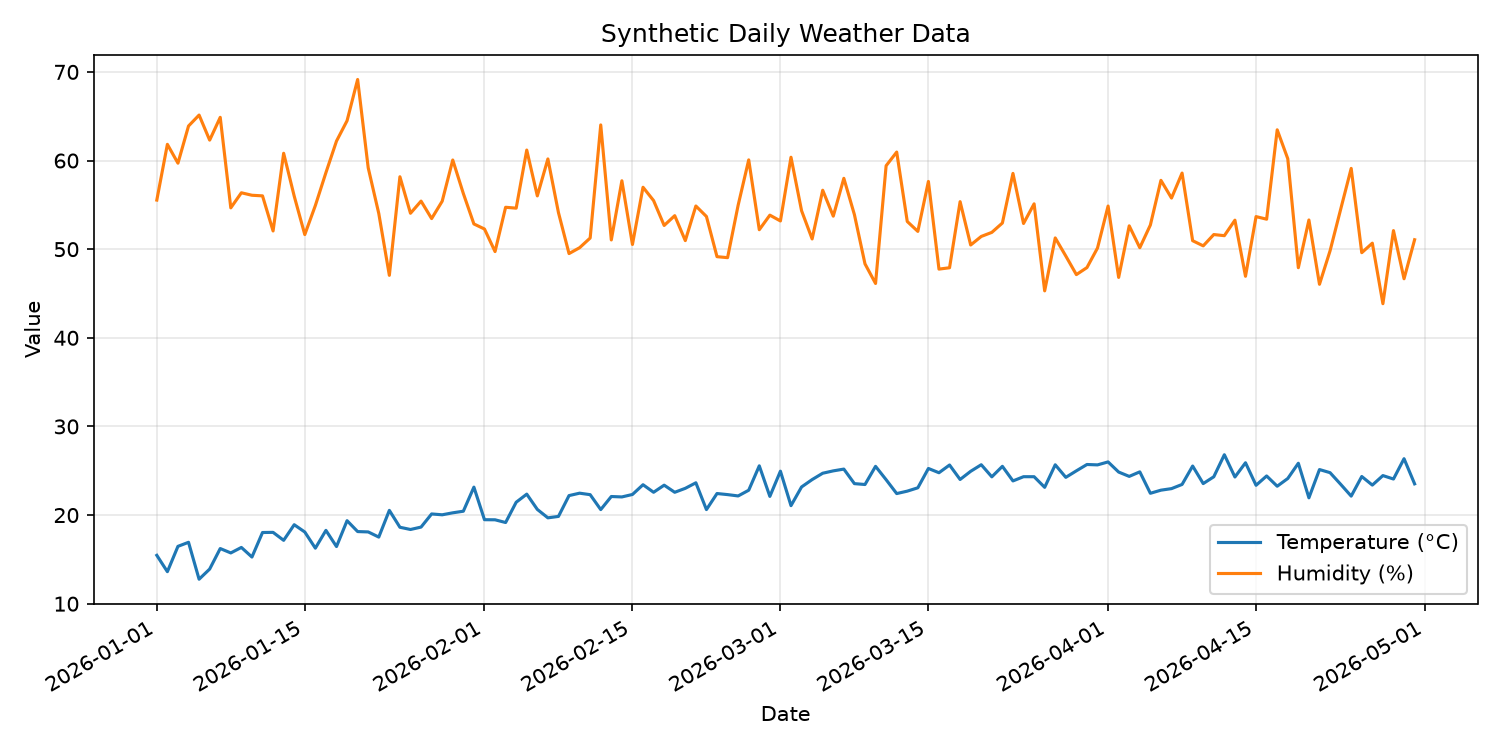
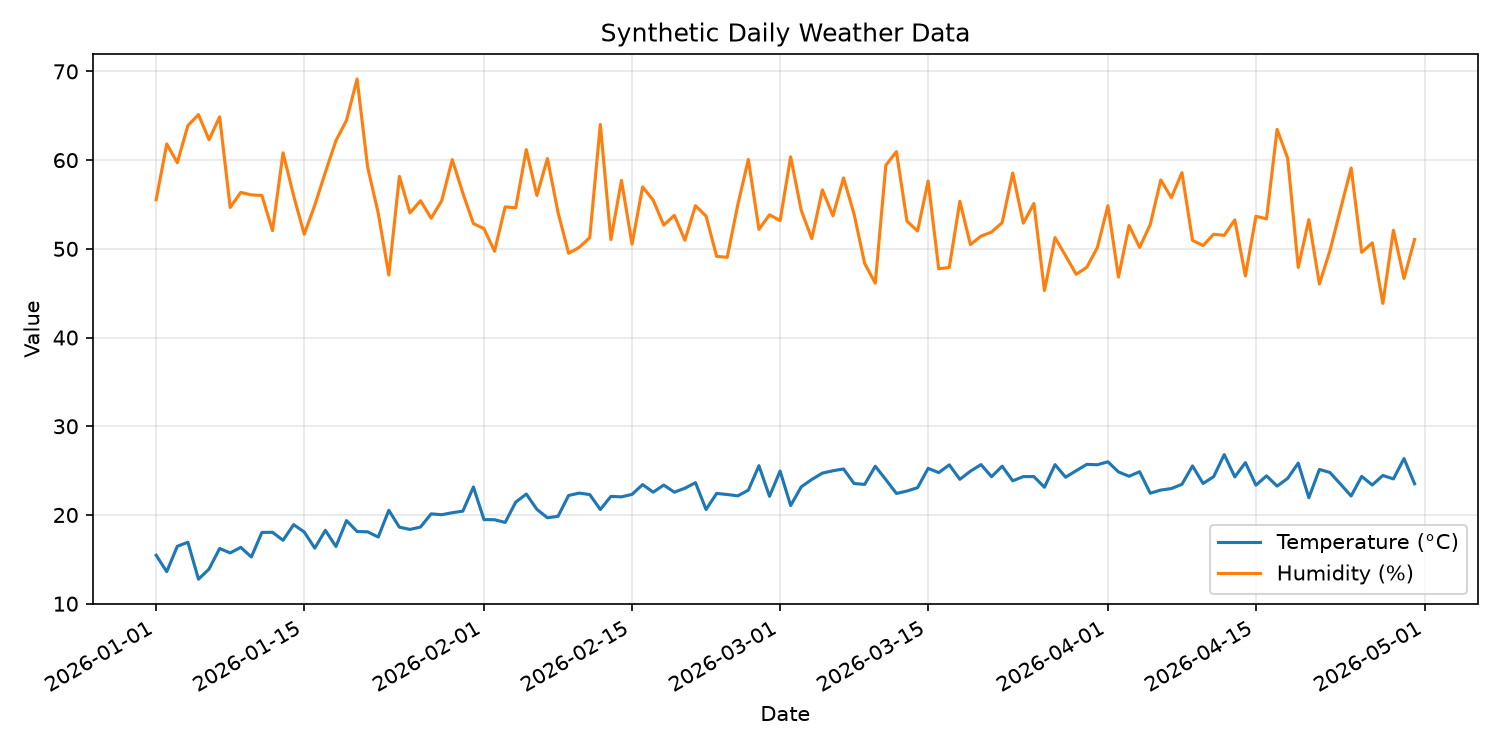
Updated the readme file

diff --git a/README.md b/README.md
@@ -1,0 +1,87 @@
+# temp
+
+A minimal "hello world" project demonstrating the core Python data stack: **numpy** for
+number generation, **pandas** for structuring, and **matplotlib** for plotting.
+
+The script synthesizes 120 days of daily weather data (temperature and humidity),
+prints summary statistics, and renders both series as a line graph.
+
+## Requirements
+
+- Python >= 3.12 (pinned to 3.12 via `.python-version`)
+- [uv](https://docs.astral.sh/uv/) for dependency management
+
+## Setup and running
+
+`uv` reads `pyproject.toml` and `uv.lock`, creating the virtual environment and
+installing dependencies automatically on first run:
+
+```bash
+uv run main.py
+```
+
+This prints the dataset summary, saves the chart to `synthetic_data.png`, and opens
+an interactive plot window.
+
+To run without opening a window (e.g. on a headless machine or in CI), force the
+non-interactive Agg backend:
+
+```bash
+MPLBACKEND=Agg uv run main.py
+```
+
+## How it works
+
+`main.py` contains two functions:
+
+### `make_dataset(days=120, seed=42)`
+
+Returns a `pandas.DataFrame` indexed by a `DatetimeIndex` starting at `2026-01-01`,
+with two columns:
+
+| Column | Description |
+| --- | --- |
+| `temperature_c` | Seasonal sine wave over the day-of-year, centered at 15 °C with a 10 °C amplitude, plus Gaussian noise (σ = 1.5) |
+| `humidity_pct` | Derived from temperature with a negative coefficient (−0.8), plus Gaussian noise (σ = 4) |
+
+Humidity is deliberately *derived* from temperature rather than drawn independently,
+so the two series are negatively correlated — the plot shows a real relationship
+instead of two unrelated noise traces.
+
+Randomness comes from `numpy.random.default_rng(seed)`, so output is reproducible:
+repeated runs produce identical numbers and an identical chart.
+
+### `main()`
+
+Builds the dataset, prints `.head()` and `.describe()`, then plots both series on
+shared axes with a legend and grid, saves the figure at 150 dpi, and calls
+`plt.show()`.
+
+## Customizing
+
+Adjust the call in `main()` to change the output:
+
+- `make_dataset(days=365)` — a full year, which shows the complete seasonal cycle
+  (the default 120 days only covers the rising portion of the sine wave)
+- `make_dataset(seed=7)` — a different random draw with the same underlying shape
+
+## Project layout
+
+```
+.
+├── main.py             # Dataset generation and plotting
+├── pyproject.toml      # Project metadata and dependencies
+├── uv.lock             # Pinned dependency versions
+├── .python-version     # Python version pin (3.12)
+└── synthetic_data.png  # Generated chart (rewritten on each run)
+```
+
+## Dependencies
+
+Locked versions in `uv.lock`:
+
+| Package | Version |
+| --- | --- |
+| numpy | 2.5.2 |
+| pandas | 3.0.5 |
+| matplotlib | 3.11.1 |
